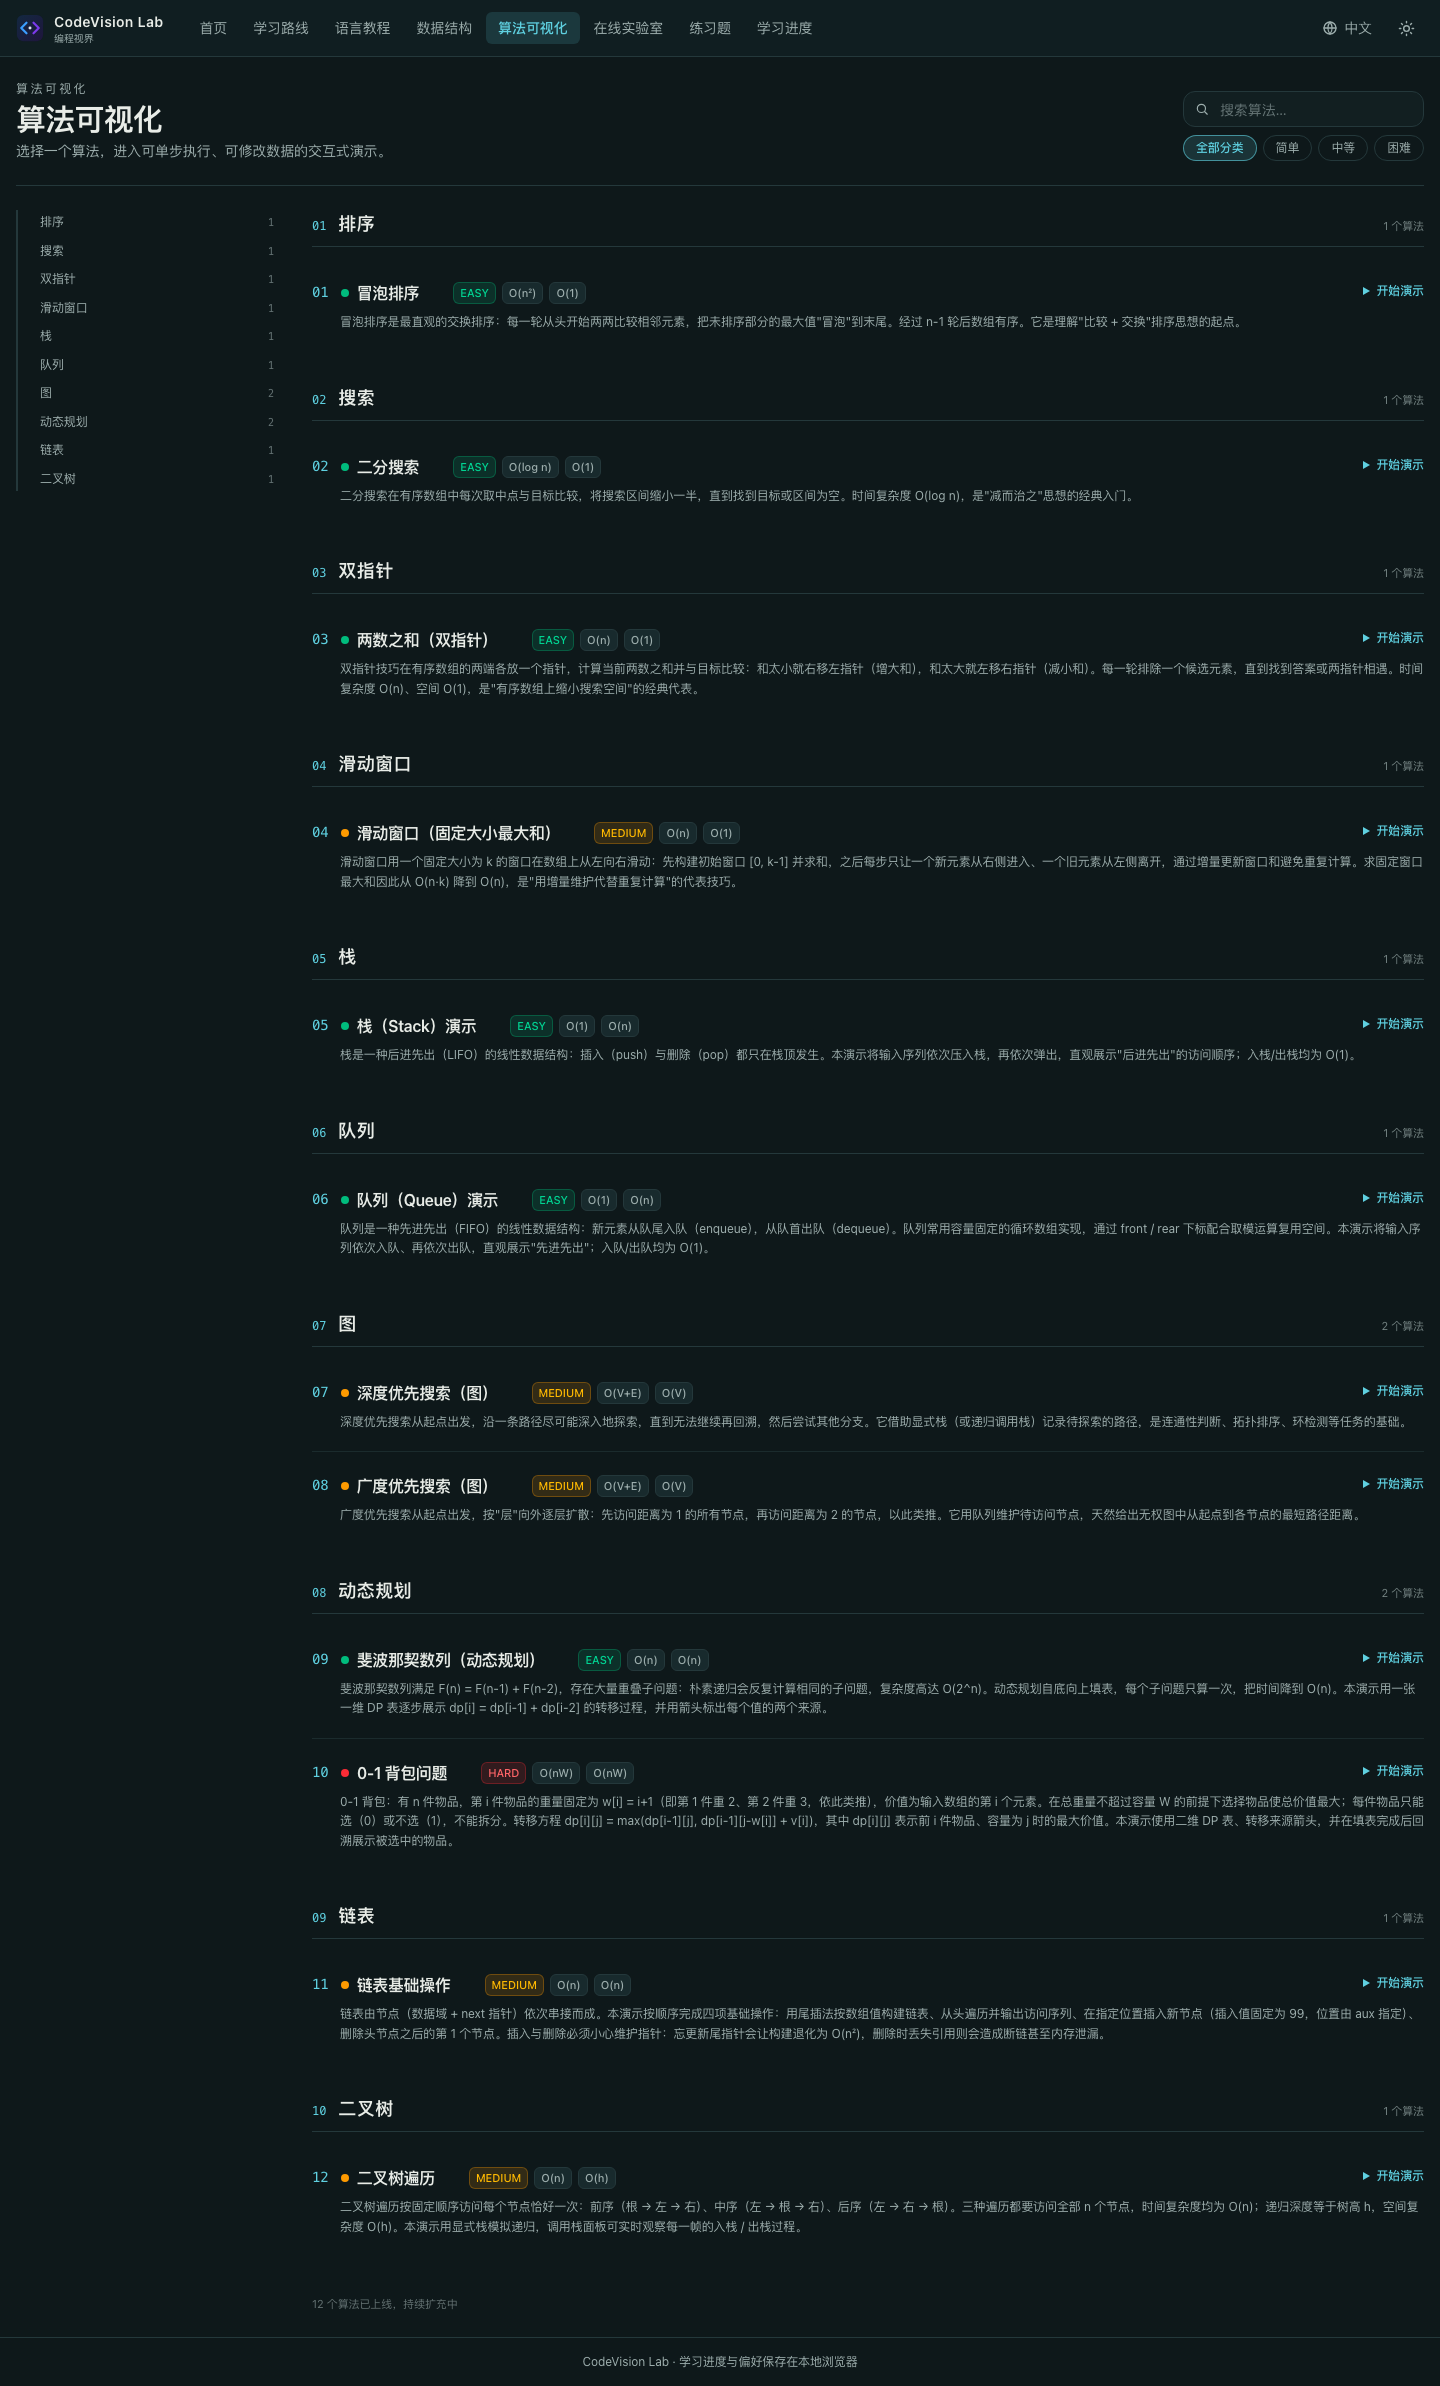
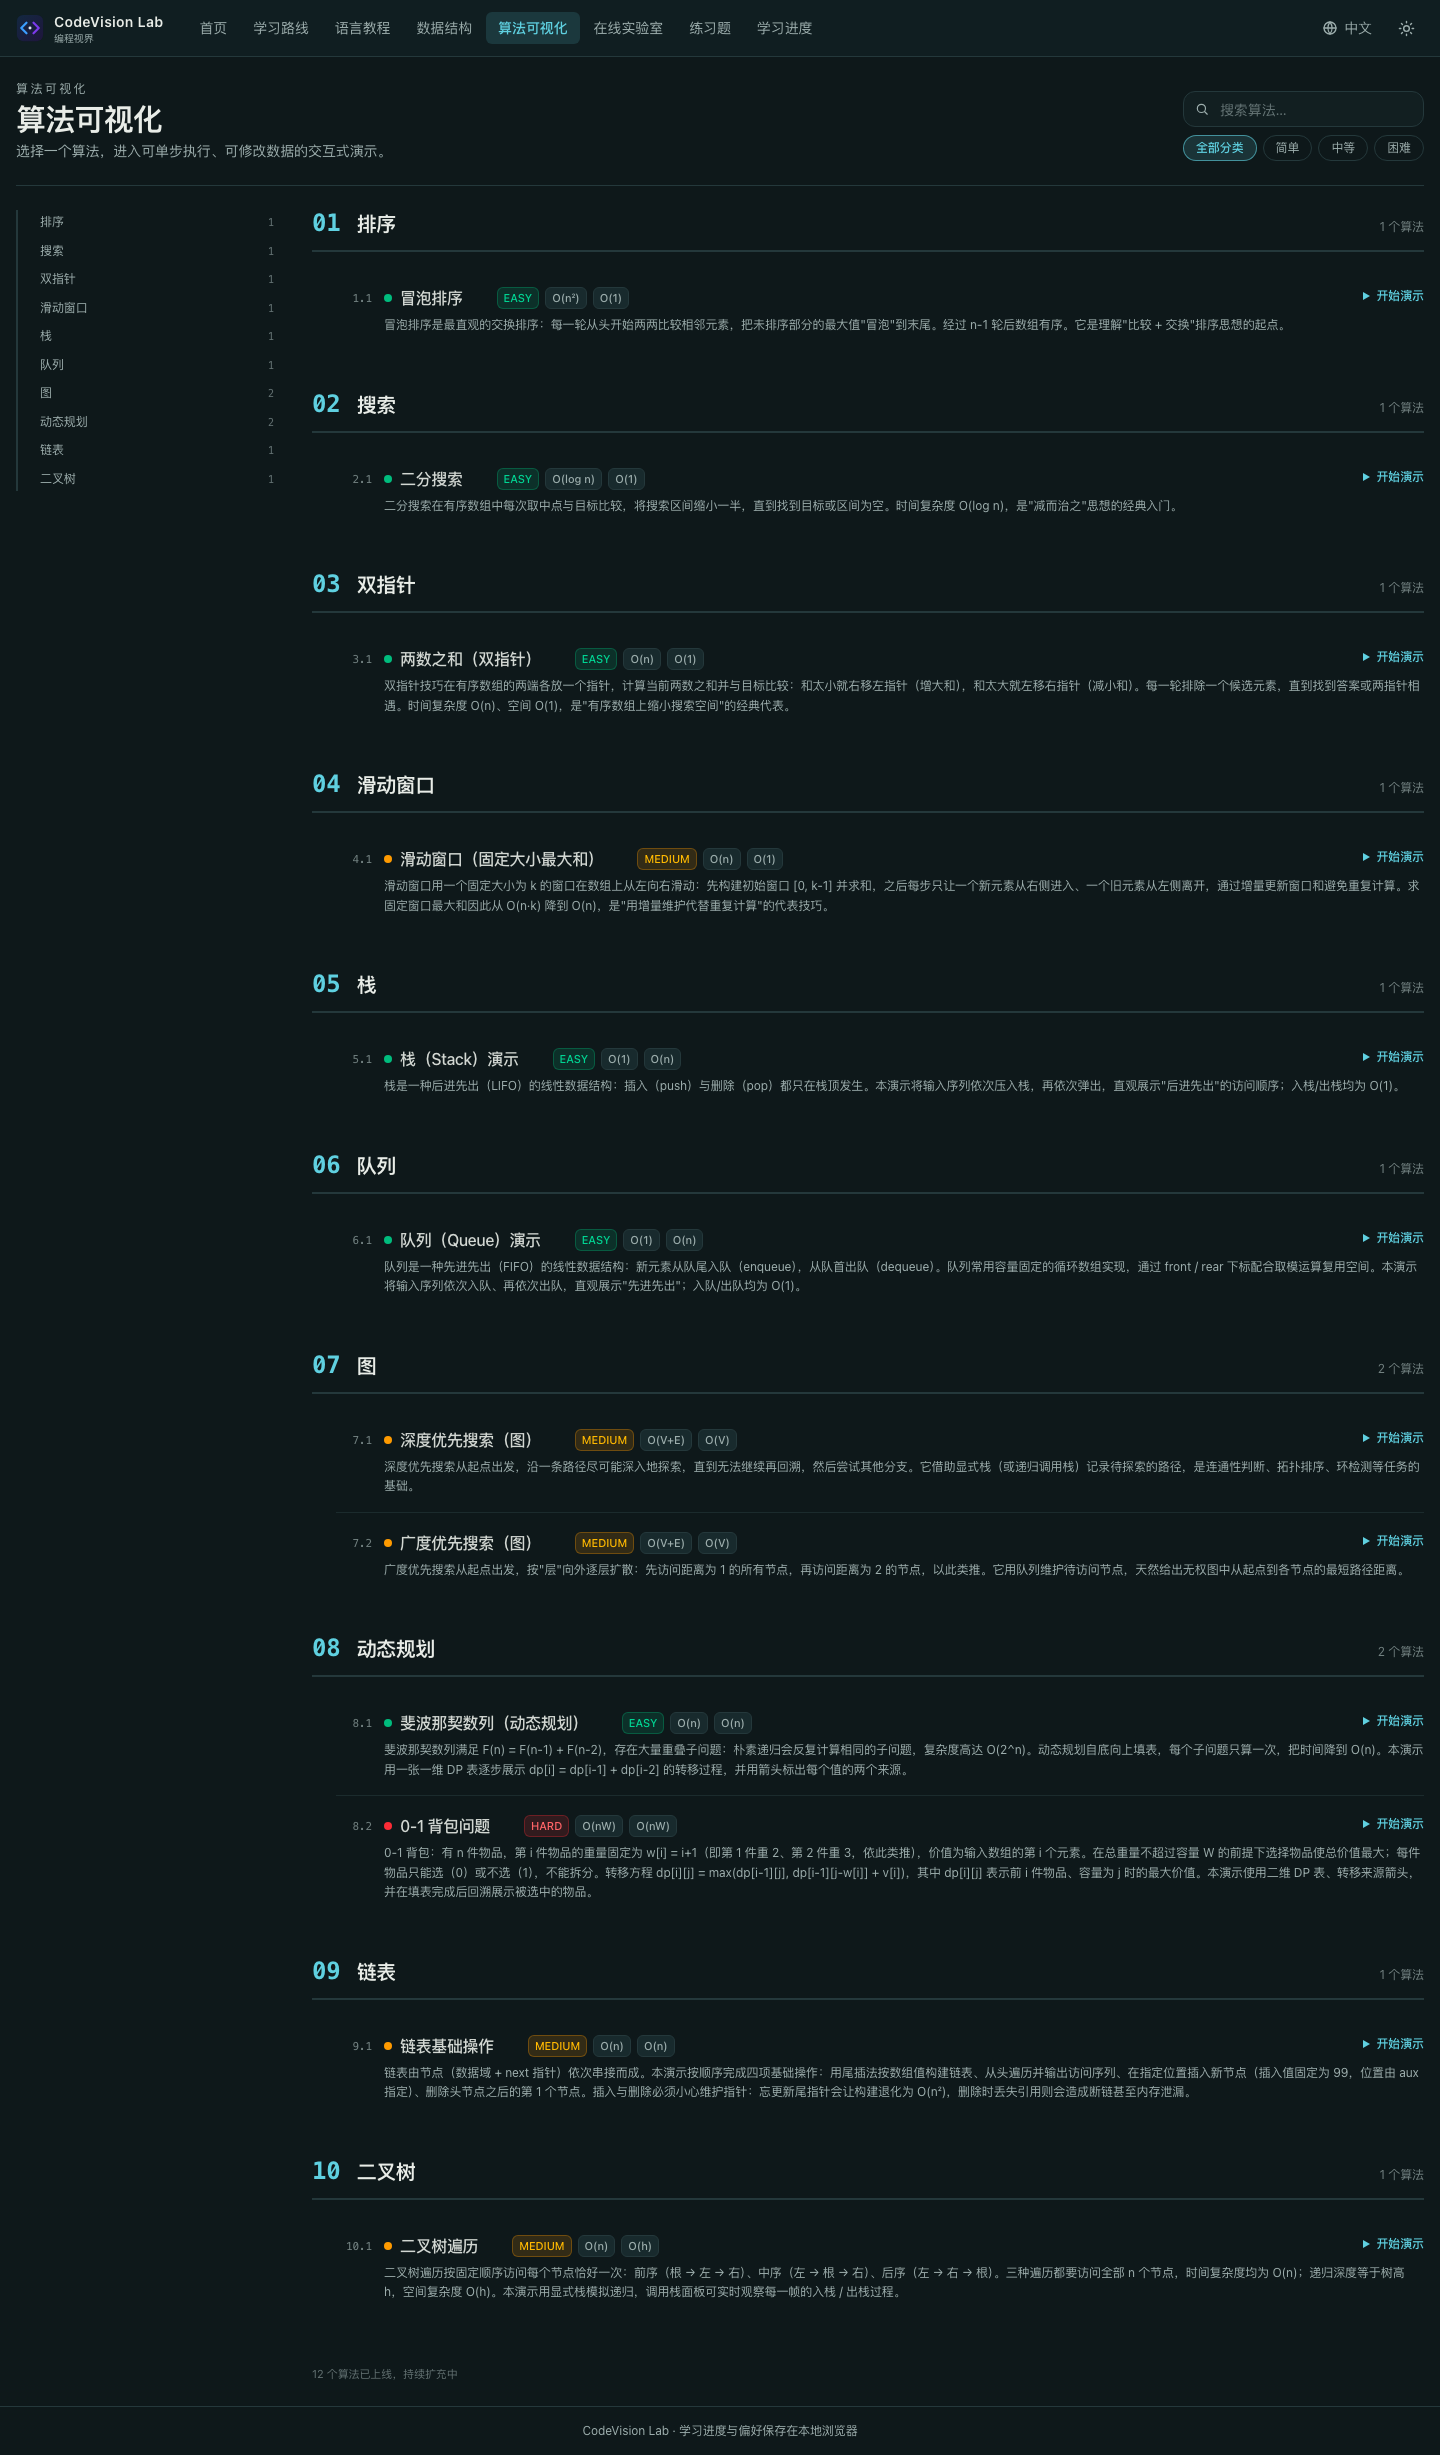
style: 重建书籍排版层级——PART 大标题 / 章大编号大标题 / 条目章.节子编号弱化缩进

diff --git a/src/pages/LessonTreePage.tsx b/src/pages/LessonTreePage.tsx
@@ -137,13 +137,13 @@ export function LessonTreePage() {
         <div className="flex min-w-0 flex-col">
           {groups.map((group, gi) => (
             <section key={group.id} className="mb-8">
-              {/* Part 标题 */}
-              <div className="mb-4 flex items-baseline gap-3 border-b border-border pb-2">
-                <span className="font-mono text-xs text-accent">
+              {/* Part 标题（最大层级） */}
+              <div className="mb-5 flex flex-wrap items-baseline gap-3 border-b-2 border-border pb-3">
+                <span className="font-mono text-xs font-semibold uppercase tracking-[0.18em] text-accent">
                   PART {gi + 1}
                 </span>
-                <h2 className="text-lg font-semibold tracking-wide">{localize(group.title)}</h2>
-                <span className="ml-auto text-[11px] text-muted/70">
+                <h2 className="text-2xl font-bold tracking-tight">{localize(group.title)}</h2>
+                <span className="ml-auto text-xs text-muted/70">
                   {group.chapters.length} {locale === 'zh' ? '章' : 'chapters'}
                 </span>
               </div>
@@ -156,29 +156,33 @@ export function LessonTreePage() {
                     <article
                       key={chapter.id}
                       id={`ch-${chapter.id}`}
-                      className="scroll-mt-20 border-b border-border/60 py-5 last:border-b-0"
+                      className="scroll-mt-20 border-b border-border/60 py-6 last:border-b-0"
                     >
-                      <div className="flex items-baseline gap-3">
-                        <span className="shrink-0 font-mono text-sm text-accent">
+                      {/* 章：大编号 + 大标题（层级高于小节） */}
+                      <div className="flex items-baseline gap-4">
+                        <span className="shrink-0 font-mono text-2xl font-bold leading-none text-accent">
                           {String(chapterNumber).padStart(2, '0')}
                         </span>
-                        <h3 className="text-base font-semibold leading-snug">
+                        <h3 className="text-xl font-semibold leading-snug tracking-tight">
                           {localize(chapter.title)}
                         </h3>
                       </div>
 
-                      {/* 已上线的知识点（可学习链接） */}
+                      {/* 已上线的知识点（可学习链接，小节层级） */}
                       {chapterLessons.length > 0 && (
-                        <div className="mt-3 flex flex-col gap-1 pl-7">
-                          {chapterLessons.map((lesson) => (
+                        <div className="mt-3 flex flex-col gap-1 pl-10">
+                          {chapterLessons.map((lesson, li) => (
                             <Link
                               key={lesson.id}
                               to={`/learn/${language}/${lesson.id}`}
-                              className="group flex items-center gap-2 rounded-lg px-2 py-2 transition-colors hover:bg-surface2"
+                              className="group flex items-baseline gap-3 rounded-lg px-2 py-1.5 transition-colors hover:bg-surface2"
                             >
+                              <span className="w-8 shrink-0 text-right font-mono text-[11px] text-muted/70">
+                                {chapterNumber}.{li + 1}
+                              </span>
                               <span
                                 className={cn(
-                                  'h-1.5 w-1.5 shrink-0 rounded-full',
+                                  'h-1.5 w-1.5 shrink-0 self-center rounded-full',
                                   DIFFICULTY_DOT[lesson.difficulty],
                                 )}
                                 aria-hidden
@@ -196,7 +200,7 @@ export function LessonTreePage() {
                       )}
 
                       {/* 章节主题一览 */}
-                      <div className="mt-2 flex flex-wrap gap-x-3 gap-y-1 pl-7">
+                      <div className="mt-2 flex flex-wrap gap-x-3 gap-y-1 pl-12">
                         {chapter.topics.map((topic) => (
                           <span key={topic} className="text-[11px] text-muted/80">
                             {topic}

diff --git a/src/components/layout/BookPage.tsx b/src/components/layout/BookPage.tsx
@@ -1,5 +1,6 @@
 import type { ReactNode } from 'react';
 import { useI18n } from '../../hooks/useI18n';
+import { cn } from '../../lib/cn';
 
 export interface BookTocEntry {
   id: string;
@@ -117,18 +118,21 @@ export function BookSection({
   children: ReactNode;
 }) {
   return (
-    <section id={`sec-${id}`} className="mb-8 scroll-mt-20">
-      <div className="mb-3 flex items-baseline gap-3 border-b border-border pb-2">
-        <span className="font-mono text-xs text-accent">{String(index).padStart(2, '0')}</span>
-        <h2 className="text-lg font-semibold tracking-wide">{title}</h2>
-        {right && <span className="ml-auto text-[11px] text-muted/70">{right}</span>}
+    <section id={`sec-${id}`} className="mb-10 scroll-mt-20">
+      {/* 章头：大号编号 + 大标题，层级一目了然 */}
+      <div className="mb-4 flex items-baseline gap-4 border-b-2 border-border pb-3">
+        <span className="shrink-0 font-mono text-2xl font-bold leading-none text-accent">
+          {String(index).padStart(2, '0')}
+        </span>
+        <h2 className="text-xl font-semibold tracking-tight">{title}</h2>
+        {right && <span className="ml-auto text-xs text-muted/70">{right}</span>}
       </div>
       <div className="flex flex-col">{children}</div>
     </section>
   );
 }
 
-/** 阅读流中的条目行（书籍式纵向列表项） */
+/** 阅读流中的条目行（书籍式纵向列表项，相对章缩进一层） */
 export function BookEntry({
   number,
   title,
@@ -136,30 +140,50 @@ export function BookEntry({
   description,
   action,
   accentDot,
+  indent = true,
 }: {
+  /** 子编号：章.节（如 "1.3"），弱化显示 */
   number?: string;
   title: ReactNode;
   meta?: ReactNode;
   description?: ReactNode;
   action?: ReactNode;
   accentDot?: string;
+  /** 是否相对章头缩进一层 */
+  indent?: boolean;
 }) {
   return (
-    <article className="flex flex-col gap-2 border-b border-border/60 py-5 last:border-b-0">
+    <article
+      className={cn(
+        'flex flex-col gap-1.5 border-b border-border/60 py-4 last:border-b-0',
+        indent && 'ml-6',
+      )}
+    >
       <div className="flex flex-wrap items-baseline gap-3">
-        {number && <span className="shrink-0 font-mono text-sm text-accent">{number}</span>}
+        {number && (
+          <span className="w-9 shrink-0 text-right font-mono text-[11px] text-muted/70">{number}</span>
+        )}
         {accentDot && (
           <span
-            className="h-2 w-2 shrink-0 self-center rounded-full"
+            className="h-1.5 w-1.5 shrink-0 self-center rounded-full"
             style={{ backgroundColor: accentDot }}
             aria-hidden
           />
         )}
-        <h3 className="text-base font-semibold leading-snug">{title}</h3>
+        <h3 className="text-base font-medium leading-snug text-text/90">{title}</h3>
         {meta && <span className="flex flex-wrap items-center gap-1.5">{meta}</span>}
         {action && <span className="ml-auto">{action}</span>}
       </div>
-      {description && <div className="pl-7 text-xs leading-relaxed text-muted">{description}</div>}
+      {description && (
+        <div
+          className={cn(
+            'text-xs leading-relaxed text-muted',
+            number ? 'pl-12' : indent ? 'pl-6' : 'pl-0',
+          )}
+        >
+          {description}
+        </div>
+      )}
     </article>
   );
 }

diff --git a/src/pages/AlgorithmsPage.tsx b/src/pages/AlgorithmsPage.tsx
@@ -40,8 +40,6 @@ export function AlgorithmsPage() {
     count: filtered.filter((m) => m.category === cat.id).length,
   }));
 
-  let entryNumber = 0;
-
   const toolbar = (
     <div className="flex flex-col gap-2">
       <div className="relative w-full max-w-xs">
@@ -92,14 +90,13 @@ export function AlgorithmsPage() {
             title={t.algorithms.categories[cat.id]}
             right={`${items.length} ${locale === 'zh' ? '个算法' : 'algorithms'}`}
           >
-            {items.map((meta) => {
-              entryNumber += 1;
+            {items.map((meta, idx) => {
               const done = completedAlgorithms[meta.id] !== undefined;
               const fav = favorites.includes(meta.id);
               return (
                 <BookEntry
                   key={meta.id}
-                  number={String(entryNumber).padStart(2, '0')}
+                  number={`${ci + 1}.${idx + 1}`}
                   accentDot={undefined}
                   title={
                     <Link

diff --git a/src/pages/ExercisesPage.tsx b/src/pages/ExercisesPage.tsx
@@ -26,8 +26,6 @@ export function ExercisesPage() {
     count: list.length,
   }));
 
-  let entryNumber = 0;
-
   return (
     <BookPage
       kicker={t.nav.exercises}
@@ -54,12 +52,11 @@ export function ExercisesPage() {
             title={languageName(lang)}
             right={`${list.length} ${locale === 'zh' ? '题' : 'exercises'}`}
           >
-            {list.map((lesson) => {
-              entryNumber += 1;
+            {list.map((lesson, idx) => {
               return (
                 <BookEntry
                   key={lesson.id}
-                  number={String(entryNumber).padStart(2, '0')}
+                  number={`${li + 1}.${idx + 1}`}
                   title={
                     <Link
                       to={`/learn/${lesson.language}/${lesson.id}`}

diff --git a/src/pages/StructuresPage.tsx b/src/pages/StructuresPage.tsx
@@ -115,6 +115,7 @@ export function StructuresPage() {
             }
           >
             <BookEntry
+              indent={false}
               title={
                 <span className="inline-flex items-center gap-2">
                   <span aria-hidden>{structure.icon}</span>
